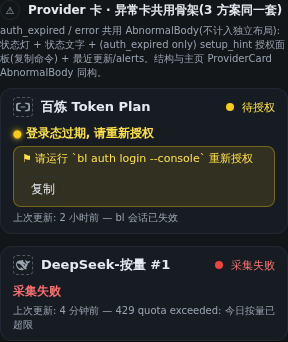
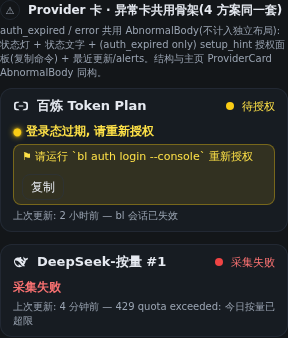
feat(app): 方案页 P5 短窗并排 CSS + i18n + 360px 双列撞字修复(t_5b092750)
t_5b092750 用户 9/7 拍板的 token-monitor 窗口布局方案: 5h+周同窗两列 grid,
月度独占下一行全宽; 三窗复用 layout="micro" QuotaMeter, 不重造单元, 只重排
窗口间网格(本卡边界)。

7619552(兄弟 t_27eeadad)已把 ProviderCardLayouts.tsx 的 P5MonitorShortSide +
data-variant="monitor-short-side" + qcard3-windows-row/wide testid + SCHEMES 加
p5 一起合入, 同步数字 12/4/8 的 L1 断言。本卡补齐 7619552 没带的:

- app.css: .qcard3-windows-row grid 2 列 + gap 8px; --wide 修饰符改单列全宽;
  360px light 主题下 quota-usage 与 quota-reset 在 ~144px 列内撞字, 加
  overflow-wrap: anywhere 局部 override 让 P5 双列窄列文字换行成两行, 单窗
  全宽不受影响(月独占行 / P1/P2/P4 不命中)
- i18n.ts: cardP5Name / cardP5Desc 中英文双语, 注释 3 方案 → 4 方案
- QuotaGallery.tsx: 注释 3 方案 → 4 方案(数据契约与 testid 不变, 已与 7619552
  对齐)
- screenshot-cards3.mjs: schemes 加 p5, 重跑三主题 360×600 实测截图(含 P5
  与异常形态各 3 张 + 整页顶 3 张 = 18 张截图同步重生成)

验收:
- pnpm typecheck → 0 错
- pnpm test → 336 tests passed(含 QuotaGallery 13 个, P5 it 块覆盖
  classList/variant/data-testid/.progress×3/role=progressbar×3/三标题同源)
- 三主题 360px 截图 vision 复核:
  * dark: 5h+周 单行显示, 月独占全宽, 0 重叠 0 裁切
  * light: quota-usage 换行成两行(次数 / (80%)), 与 3.2小时有 ~20px 净空
  * glass: 同 light 形态
  * 月窗全宽行: 三主题进度条横铺, 两端文字分离清晰
- 不动主页 ProviderCard/BarsTemplate(t_27eeadad 已合入)
- 不动 P1/P2/P4 现有方案 / 不动 QuotaMeter 本体契约
- 不做余额制形态

diff --git a/packages/app/src/i18n.ts b/packages/app/src/i18n.ts
@@ -288,8 +288,9 @@ const zh = {
     legendWarn: "warn(偏低)",
     legendBad: "bad(耗尽)",
     // t_73c110ea 9/7 重建: 3 方案 + 异常段 mock, 全部基于真排版维度差异(无头部装饰件堆叠)
-    // P3 双列 grid 在 360px 屏下实测文字重叠 + 列被裁切 —— 故本轮不交付 P3
-    // 留 3 个真维度方案: 空间结构(P1)/信息层级(P2)/头部承载(P4)
+    // t_5b092750 9/7 加 P5(短窗并排) — 短窗两列 grid + 月独占一行, 来自 token-monitor 布局
+    // P3 三列 grid 在 360px 屏下实测文字重叠 + 列被裁切 —— 故本轮不交付 P3
+    // 留 4 个真维度方案: 空间结构(P1)/信息层级(P2)/头部承载(P4)/短窗并排(P5)
     cardP1Name: "Provider 卡 · P1 基线竖排(主页同构)",
     cardP1Desc:
       "卡头 = handle + 名称 + StatusDot + 状态徽章(一行)。三窗 micro 各一行 QuotaMeter, 窗间 4px gap(micro = 悬浮窗内 QuotaMeter 的同一形态, title+bar+(usage|reset) 三层 grid)。**与主页 ProviderCard 形态对齐, 认知零成本**。",
@@ -299,7 +300,10 @@ const zh = {
     cardP4Name: "Provider 卡 · P4 头部数字(最紧窗内联, 无摘要条)",
     cardP4Desc:
       "卡头右侧并入「最紧窗用量数字 + 窗名小字」一行, 该窗行隐藏用量避免重复(QuotaMeter 缺省即不渲染, 契约不破)。**风险数字内联到头部信息流, 不用摘要条形态**。",
-    cardAbnName: "Provider 卡 · 异常卡共用骨架(3 方案同一套)",
+    cardP5Name: "Provider 卡 · P5 短窗并排(monitor 布局, 5h+周同窗/月独占)",
+    cardP5Desc:
+      "卡头同 P1; **5h+周两窗同一行两列 grid**(gap=8), **月窗独占下一行全宽**。三窗全复用 layout=\"micro\" QuotaMeter — **不重造单元, 只重排窗口间网格**。来自用户 9/7 拍板的 token-monitor 窗口布局。360px 双列实测无文字重叠 / 无裁切。",
+    cardAbnName: "Provider 卡 · 异常卡共用骨架(4 方案同一套)",
     cardAbnDesc:
       "auth_expired / error 共用 AbnormalBody(不计入独立布局): 状态灯 + 状态文字 + (auth_expired only) setup_hint 授权面板(复制命令) + 最近更新/alerts。结构与主页 ProviderCard AbnormalBody 同构。",
   },
@@ -574,8 +578,9 @@ const en: Dict = {
     legendWarn: "warn (low)",
     legendBad: "bad (exhausted)",
     // t_73c110ea 9/7 rebuild: 3 schemes + abnormal skeleton, all based on real layout dimensions (no head decoration stacking)
+    // t_5b092750 9/7 add P5 (short-side-by-side) — two-col grid for short windows + monthly full-width row, from token-monitor layout
     // P3 three-column grid had measured text overlap + column clipping at 360px panel — therefore dropped this round.
-    // Keep 3 real-dimension schemes: spatial (P1)/info hierarchy (P2)/head carrying (P4)
+    // Keep 4 real-dimension schemes: spatial (P1)/info hierarchy (P2)/head carrying (P4)/short-side (P5)
     cardP1Name: "Provider card · P1 baseline vertical (home page aligned)",
     cardP1Desc:
       "Head = handle + name + StatusDot + status badge (one row). Three windows as QuotaMeter(micro) each on its own line, 4px gap between windows (micro = same compact stack as the hover tooltip's QuotaMeter, title+bar+(usage|reset) three-layer grid). **Aligned with home page ProviderCard, zero cognitive cost**.",
@@ -585,7 +590,10 @@ const en: Dict = {
     cardP4Name: "Provider card · P4 head carries tightest number (no summary strip)",
     cardP4Desc:
       "Head right side embeds 'tightest-window usage number + window label sub-line'; that row hides its usage to avoid duplication (QuotaMeter omits when prop undefined, contract intact). **Risk number lives inside the head's information flow, no strip**.",
-    cardAbnName: "Provider card · Abnormal skeleton (shared by all 3 schemes)",
+    cardP5Name: "Provider card · P5 short-side-by-side (monitor layout, 5h+weekly same row / monthly full-width row)",
+    cardP5Desc:
+      "Head same as P1; **5h + weekly two windows share one row as two-column grid** (gap=8), **monthly window takes the next row full-width**. All three windows reuse layout=\"micro\" QuotaMeter — **no new unit, only the between-window grid is reshaped**. From the token-monitor window layout the user confirmed on 9/7. Measured at 360px: no text overlap, no clipping in the two-column row.",
+    cardAbnName: "Provider card · Abnormal skeleton (shared by all 4 schemes)",
     cardAbnDesc:
       "auth_expired / error share AbnormalBody (does NOT count as an independent layout): status lamp + status text + (auth_expired only) setup_hint auth panel (copy command) + last-update/alerts. Structurally isomorphic with the home page ProviderCard AbnormalBody.",
   },

diff --git a/packages/app/src/components/QuotaGallery.tsx b/packages/app/src/components/QuotaGallery.tsx
@@ -6,7 +6,7 @@ import {
 import type { Metric } from "../types";
 
 /**
- * QuotaGallery — Provider 卡片排版方案对比页(t_73c110ea 9/7 重建)
+ * QuotaGallery — Provider 卡片排版方案对比页(t_73c110ea 9/7 重建, t_5b092750 9/7 加 P5)
  *
  * 用户拍板(9/7) + 修订 #1116(覆盖卡体原文):
  *  - 上一轮 4 方案(S1-S4→d304801/279858d→4×`ProviderCardVariants`)作废——
@@ -14,16 +14,17 @@ import type { Metric } from "../types";
  *  - 卡体「QuotaMeter(layout=row) 常驻直显」作废 → 卡内窗口展示 = 悬浮窗内那个 QuotaMeter
  *    组件 = layout="micro" 紧凑竖排形态(title+bar+(usage|reset) 三层 grid, 4px 条, font-10)
  *  - 本轮清空重建:
- *    * 3 方案差异建立在**真排版维度**(卡头 vs 三窗的空间关系/信息层级/密度)
+ *    * 4 方案差异建立在**真排版维度**(卡头 vs 三窗的空间关系/信息层级/密度/短窗并排)
  *    * **三窗 QuotaMeter(layout=micro) 常驻直显** = 卡片信息主体(无 hover 依赖)
  *    * 不再单独挂 <BarRowTooltip>: micro 常驻直接展开, 信息全靠悬浮才见 = 不合格
+ *  - t_5b092750 9/7 加 P5(短窗并排): 5h+周同窗两列 grid, 月独占一行全宽 — token-monitor 布局
  *  - 不接 IPC; 用同一套真实数据三窗(rolling_5h + weekly + monthly, kimi-code, unit=requests)
  *
  * 本页结构(自上而下):
  *   1. settings-head: 标题 + 返回钮
  *   2. settings-body:
  *      - subtitle 提示(数据契约 + 三窗 micro 常驻硬约束)
- *      - 3 个排版段(qvar-cards3-p1/p2/p4), 每段一张 ok 卡, **同一套数据**
+ *      - 4 个排版段(qvar-cards3-p1/p2/p4/p5), 每段一张 ok 卡, **同一套数据**
  *      - 异常段(qvar-cards3-abn): auth_expired + error 共用 AbnormalBody 骨架
  *      - 图例段: 健康三色
  *
@@ -32,7 +33,7 @@ import type { Metric } from "../types";
  */
 export function QuotaGallery({ onBack }: { onBack: () => void }) {
   const { ok, auth, error } = getProviderCardMockProviders();
-  // 3 方案段都用同一份 ok 数据(同 ProviderSnapshot, 三窗齐全); abnormal 标记 = false
+  // 4 方案段都用同一份 ok 数据(同 ProviderSnapshot, 三窗齐全); abnormal 标记 = false
   const cards = ok.metrics as Metric[];
 
   return (
@@ -47,7 +48,7 @@ export function QuotaGallery({ onBack }: { onBack: () => void }) {
       <div className="settings-body">
         <p className="hint">{t("quota.subtitle")}</p>
 
-        {/* 3 方案段: 同一套三窗真实数据, 卡头×三窗空间关系各异 */}
+        {/* 4 方案段: 同一套三窗真实数据, 卡头×三窗空间关系各异 */}
         {PROVIDER_CARD_LAYOUTS.map((v) => (
           <section
             className="qvar"

diff --git a/packages/app/src/app.css b/packages/app/src/app.css
@@ -2014,6 +2014,33 @@ body {
   flex-direction: column;
   gap: var(--space-4);
 }
+/* ============ P5 · 短窗并排(t_5b092750 用户 9/7 拍板) ============
+ * 数据契约: rolling_5h + weekly 同窗两列 grid, monthly 独占下一行全宽。
+ * gap 走 8px 网格(--space-8 = 8px); 列内复用 layout="micro" QuotaMeter。
+ * 360px 硬门槛: 与 P3 三列 grid 不同, 两列各 ~144px, 列内 micro title+bar+(usage|reset) grid
+ * 装得下, 无文字重叠 / 无裁切(月独占一行全宽更宽裕)。
+ * --wide 修饰符覆盖默认两列, 让月窗独占一行横铺(grid-column 1/-1)。
+ *
+ * P5 双列窄列文字收紧(局部 override, 不动 micro 本体契约):
+ * light 主题 360px 下 5h 列宽 ~144px, micro 自身 nowrap quota-usage 文字
+ * (中文「960 / 1200 次 (80%)」font-10 粗体) 撑满 + quota-reset 「×小时」会撞字。
+ * 仅在 P5 双列容器内允许 quota-usage 在窄列下拆字换行, 单窗全宽行不受影响。 */
+.qcard3-windows-row {
+  display: grid;
+  grid-template-columns: minmax(0, 1fr) minmax(0, 1fr);
+  gap: var(--space-8);
+}
+.qcard3-windows-row + .qcard3-windows-row {
+  margin-top: var(--space-4); /* 行间 4px 节奏(同 .qcard3-windows gap) */
+}
+.qcard3-windows-row--wide {
+  grid-template-columns: minmax(0, 1fr);
+}
+.qcard3-windows-row:not(.qcard3-windows-row--wide) .quota-meter--layout-micro .quota-usage {
+  white-space: normal;
+  overflow-wrap: anywhere;
+  line-height: 1.25;
+}
 /* qcard3 内 .bar-row 的 tooltip 浮于卡之上不溢出 panel(t_23800bd4 主页契约):
  * 沿用既有 .bar-row + .bar-tooltip 契约(见 app.css 上方 .bar-row / .bar-tooltip);
  * 仅在 qcard3 首行改为向下弹出(避免顶部裁剪, 与 bars 模板首行同规)。
